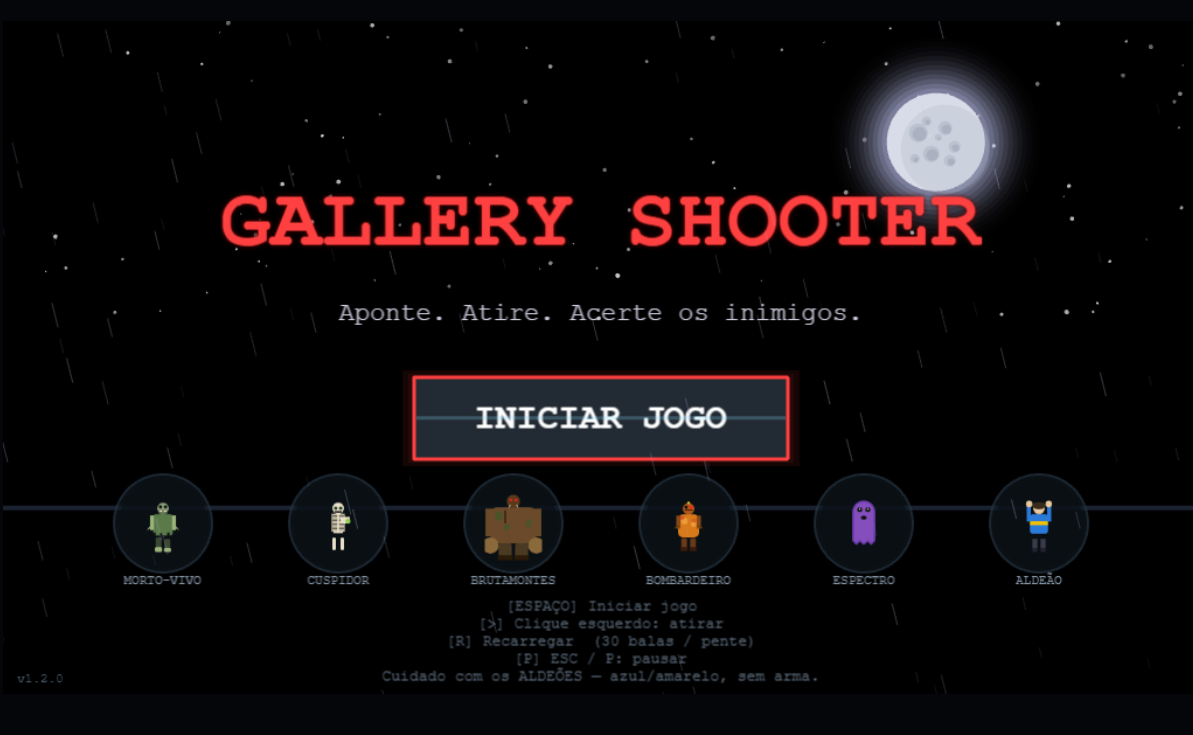
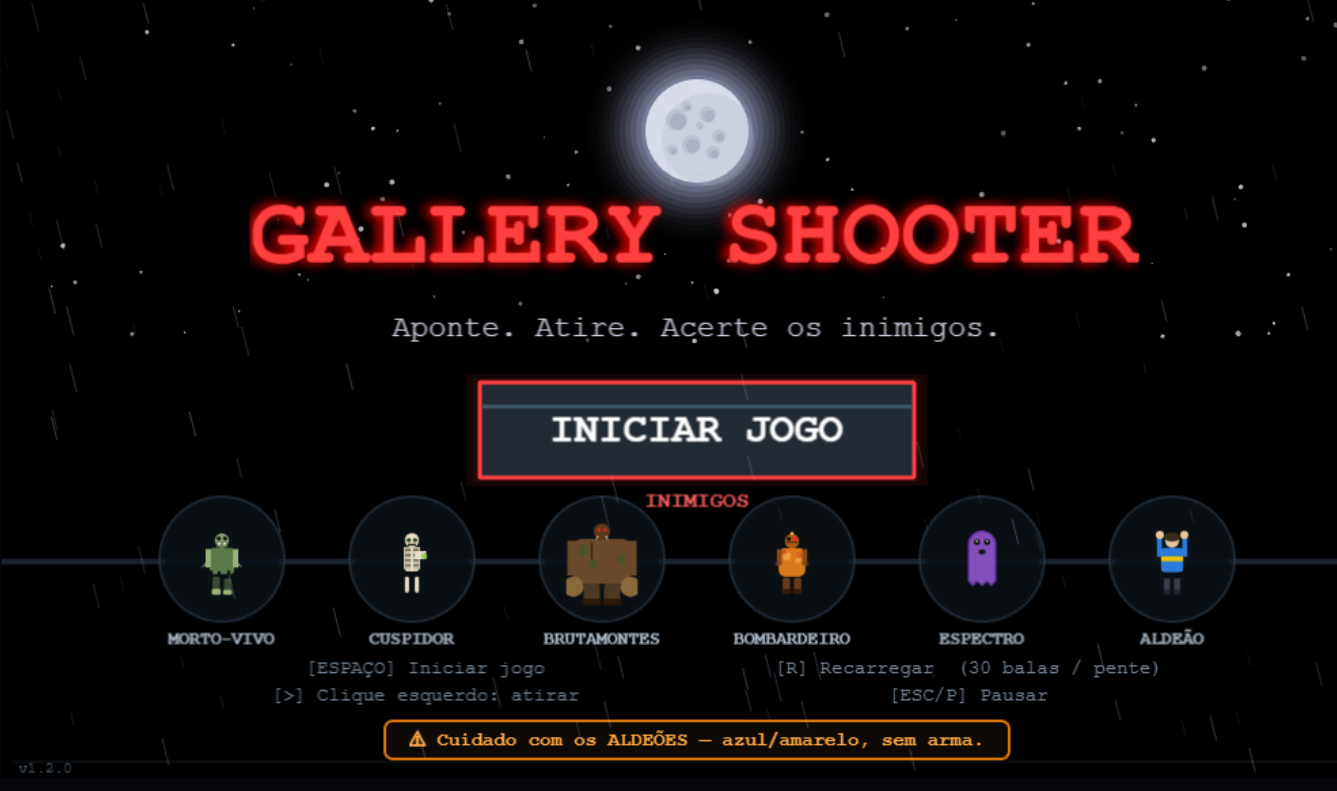
refactor: Atualiza exibição e persistência do histórico de jogos
* Altera o armazenamento local para rastrear os últimos 6 jogos em vez dos 3 anteriores.
* Ajusta o layout das cartas de histórico para um formato de 2 linhas por 3 colunas, melhorando a responsividade.
* Corrige tamanhos de fonte e posicionamento vertical dos elementos do painel de resultados.

Changed region(s): [[0.0, 0.4789, 1.0, 0.9878], [0.1861, 0.0299, 0.8684, 0.3592], [0.2791, 0.3891, 0.7443, 0.449]]

diff --git a/index.html b/index.html
@@ -2032,7 +2032,7 @@ class GameOverScene extends Phaser.Scene {
 
     const acc=this.stats.shotsFired>0?Math.round(this.stats.shotsHit/this.stats.shotsFired*100):0;
 
-    // ----- persist history (last 3 games, sorted by score desc) -----
+    // ----- persist history (last 6 games, sorted by date desc) -----
     const now=new Date();
     const entry={
       date:now.toISOString(),
@@ -2047,20 +2047,25 @@ class GameOverScene extends Phaser.Scene {
     let history=JSON.parse(localStorage.getItem('gs_history')||'[]');
     history.forEach(h=>delete h.current);
     history.unshift(entry);
-    history.sort((a,b)=>b.score-a.score);
-    history=history.slice(0,3);
+    history.sort((a,b)=>new Date(b.date)-new Date(a.date));
+    history=history.slice(0,6);
     localStorage.setItem('gs_history',JSON.stringify(history));
     const currentIdx=history.findIndex(h=>h.current);
 
-    // ----- history cards -----
-    const cardW=260, cardH=115, gap=18;
-    const totalW=history.length*cardW+(history.length-1)*gap;
+    // ----- history cards (2 rows × 3 cols) -----
+    const cardW=230, cardH=100, gap=14;
+    const cardsPerRow=3;
+    const totalW=cardsPerRow*cardW+(cardsPerRow-1)*gap;
     const startX=BASE_W/2-totalW/2+cardW/2;
-    const cy=190;
-    this.add.text(BASE_W/2,105,'ÚLTIMOS JOGOS',{fontSize:'16px',color:'#8899aa'}).setOrigin(0.5);
+    const rowSpacing=cardH+gap+4;
+    const cy0=185;
+    this.add.text(BASE_W/2,110,'ÚLTIMOS JOGOS',{fontSize:'16px',color:'#8899aa', marginBottom:10 }).setOrigin(0.5);
 
     history.forEach((h,i)=>{
-      const cx=startX+i*(cardW+gap);
+      const col=i%cardsPerRow;
+      const row=Math.floor(i/cardsPerRow);
+      const cx=startX+col*(cardW+gap);
+      const cy=cy0+row*rowSpacing;
       const isCurrent=i===currentIdx;
       const container=this.add.container(cx,cy).setDepth(10);
 
@@ -2071,27 +2076,27 @@ class GameOverScene extends Phaser.Scene {
 
       const d=new Date(h.date);
       const dd=`${String(d.getDate()).padStart(2,'0')}/${String(d.getMonth()+1).padStart(2,'0')}/${d.getFullYear()} ${String(d.getHours()).padStart(2,'0')}:${String(d.getMinutes()).padStart(2,'0')}`;
-      container.add(this.add.text(0,-48,dd,{fontSize:'11px',color:'#667788'}).setOrigin(0.5));
+      container.add(this.add.text(0,-40,dd,{fontSize:'10px',color:'#667788'}).setOrigin(0.5));
 
-      container.add(this.add.text(0,-24,h.score.toLocaleString(),{fontSize:'28px',color:isCurrent?'#ffdd40':'#ffffff',fontStyle:'bold'}).setOrigin(0.5));
+      container.add(this.add.text(0,-18,h.score.toLocaleString(),{fontSize:'24px',color:isCurrent?'#ffdd40':'#ffffff',fontStyle:'bold'}).setOrigin(0.5));
 
       const det=`Round ${h.round}  •  ${h.kills} kills  •  ${h.accuracy}%`;
-      container.add(this.add.text(0,6,det,{fontSize:'13px',color:'#aabbcc'}).setOrigin(0.5));
+      container.add(this.add.text(0,5,det,{fontSize:'12px',color:'#aabbcc'}).setOrigin(0.5));
 
       const botLines=[];
       if(h.innocentsKilled>0) botLines.push(`Aldeões: ${h.innocentsKilled}`);
       botLines.push(`Continues: ${h.continues}`);
       const botText=botLines.join('  •  ');
       const botColor=h.innocentsKilled>0?'#ff6060':'#8899aa';
-      container.add(this.add.text(0,30,botText,{fontSize:'12px',color:botColor}).setOrigin(0.5));
+      container.add(this.add.text(0,24,botText,{fontSize:'11px',color:botColor}).setOrigin(0.5));
 
       if(isCurrent){
-        container.add(this.add.text(0,52,'JOGO ATUAL',{fontSize:'10px',color:'#ffcc44',fontStyle:'bold'}).setOrigin(0.5));
+        container.add(this.add.text(0,42,'JOGO ATUAL',{fontSize:'10px',color:'#ffcc44',fontStyle:'bold'}).setOrigin(0.5));
       }
     });
 
     // ----- buttons -----
-    const btnY=500, btnW=220, btnH=54, gapBtn=30;
+    const btnY=470, btnW=220, btnH=54, gapBtn=30;
     const btnRestart=this.add.rectangle(BASE_W/2-gapBtn/2-btnW/2,btnY,btnW,btnH,0x222a33).setStrokeStyle(2,0xffffff).setInteractive({useHandCursor:true}).setDepth(10);
     this.add.text(btnRestart.x,btnY,'JOGAR NOVAMENTE',{fontSize:'20px',color:'#fff',fontStyle:'bold'}).setOrigin(0.5).setDepth(11);
 
